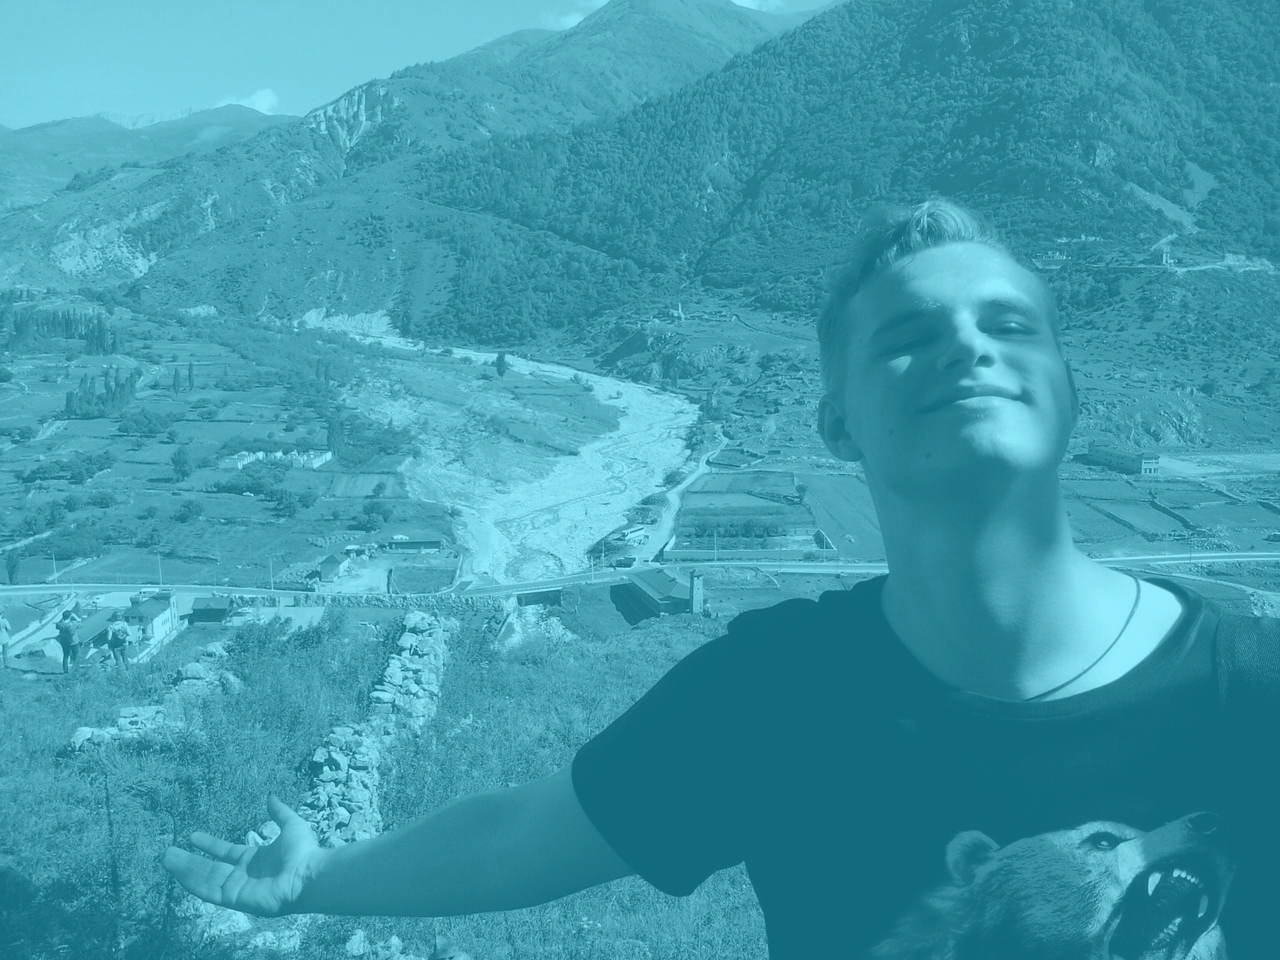
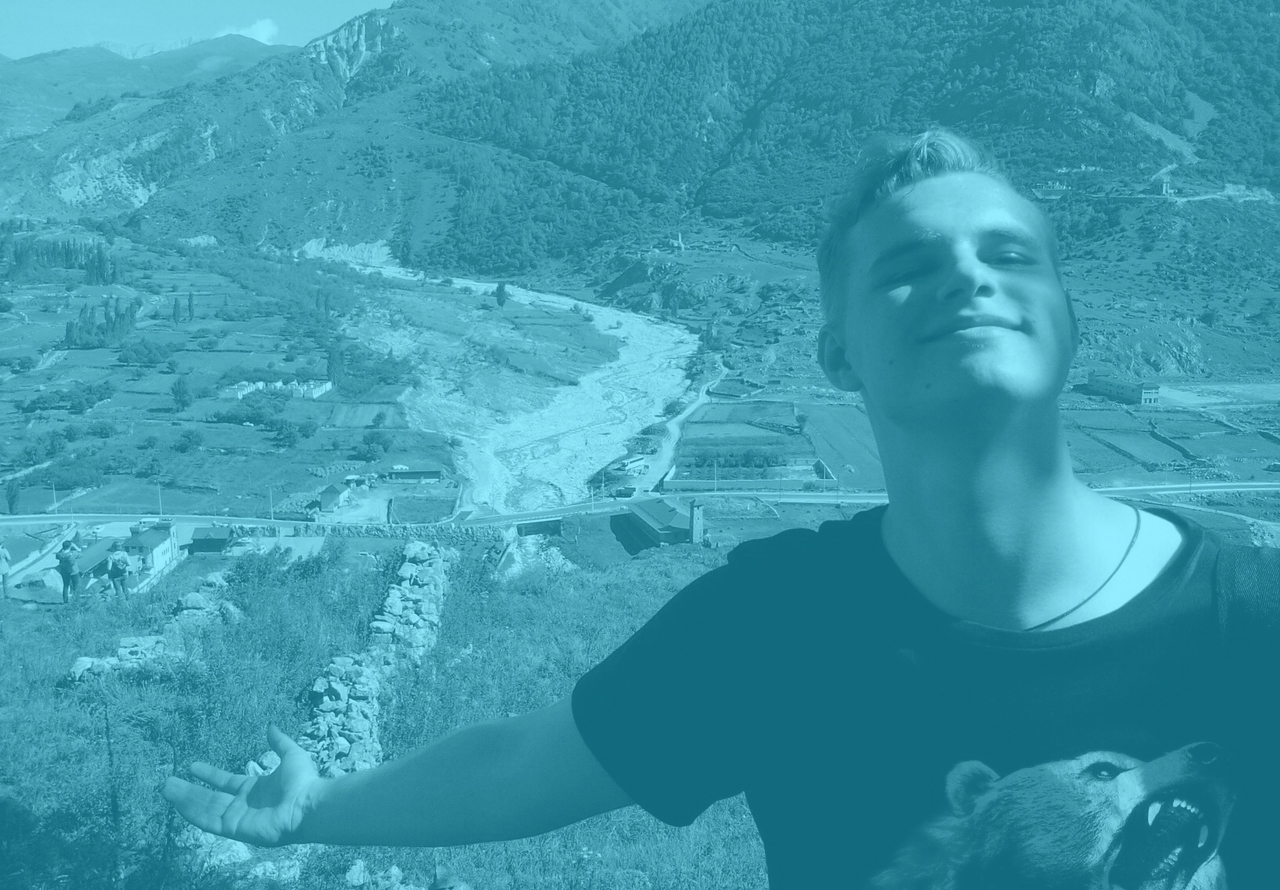
Improved styles and picture

diff --git a/src/index.css b/src/index.css
@@ -139,7 +139,7 @@ footer a {
 }
 
 .overview-container {
-  height: 24%;
+  height: 24.2%;
 }
 
 .overview-img {
